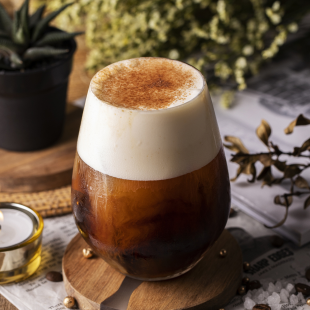
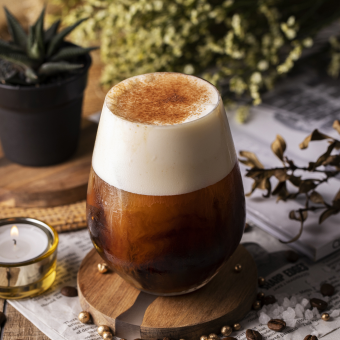
feat: change images in cards

diff --git a/style.css b/style.css
@@ -565,13 +565,14 @@ header nav a:hover {
 
 .menu__card img {
   display: inline-block;
-  width: 340px;
-  height: 340px;
+  width: 100%;
+  /* height: 100%; */
+  transform: scale(1.1);
   transition: .5s;
 }
 
 .menu__card:hover img{
-  transform: scale(0.9);
+  transform: scale(1);
 }
 
 .menu__card_description {
